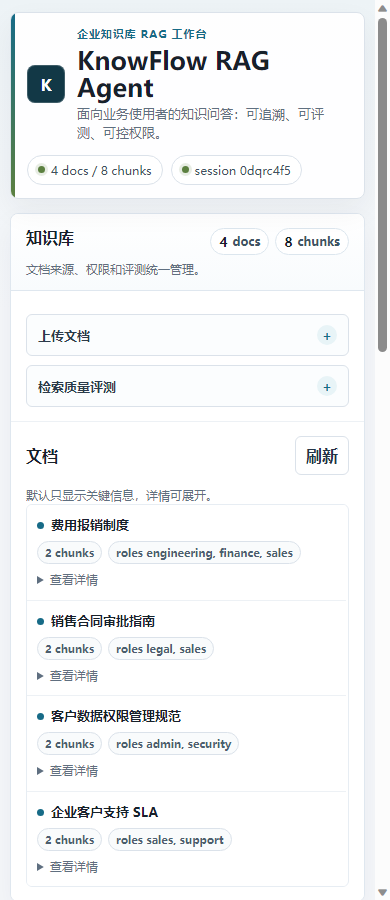
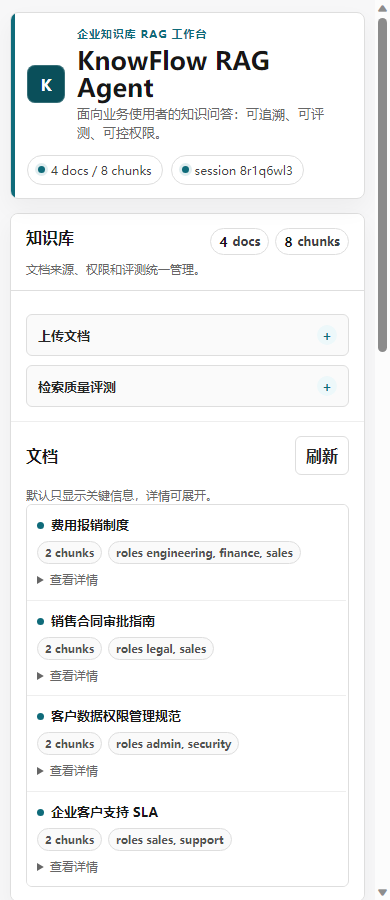
Align dashboard with Codex light theme

diff --git a/knowflow/web/static/app.css b/knowflow/web/static/app.css
@@ -1,23 +1,17 @@
 :root {
       color-scheme: light;
       font-family: Inter, "Microsoft YaHei", Arial, sans-serif;
-      --bg: #f5f7fa;
+      --bg: #f7f7f8;
       --panel: #ffffff;
-      --panel-soft: #f9fbfc;
-      --line: #dbe2ea;
-      --line-strong: #c8d2df;
-      --text: #17212b;
-      --muted: #5f6f80;
-      --accent: #176b87;
-      --accent-strong: #0f526a;
-      --accent-soft: #e8f4f7;
-      --green: #5c8040;
-      --green-soft: #edf7e8;
-      --amber: #9a6a2b;
-      --amber-soft: #fff6df;
-      --red: #a94b47;
-      --red-soft: #fff1f0;
-      --shadow: 0 12px 30px rgba(31, 45, 61, .055);
+      --panel-soft: #fafafa;
+      --line: #dedede;
+      --line-strong: #c9c9c9;
+      --text: #171717;
+      --muted: #666666;
+      --accent: #0f6b7a;
+      --accent-strong: #0a4f5a;
+      --accent-soft: #edf8fa;
+      --shadow: 0 10px 24px rgba(0, 0, 0, .045);
     }
     * { box-sizing: border-box; }
     [hidden] { display: none !important; }
@@ -35,26 +29,24 @@
     body {
       margin: 0;
       color: var(--text);
-      background:
-        linear-gradient(180deg, #edf3f6 0, rgba(245, 247, 250, .98) 310px),
-        var(--bg);
+      background: var(--bg);
     }
     main { max-width: 1500px; margin: 0 auto; padding: 16px 18px 32px; }
     .topbar {
       display: flex; align-items: center; justify-content: space-between; gap: 18px;
       margin-bottom: 14px; padding: 13px 16px;
       border: 1px solid var(--line); border-radius: 8px;
-      background: rgba(255,255,255,.95); box-shadow: var(--shadow);
+      background: rgba(255,255,255,.96); box-shadow: var(--shadow);
       position: relative; overflow: hidden;
     }
     .topbar::before {
       content: ""; position: absolute; inset: 0 auto 0 0; width: 4px;
-      background: linear-gradient(180deg, var(--accent), var(--green));
+      background: var(--accent);
     }
     .brand-block { display: flex; align-items: center; gap: 12px; min-width: 0; }
     .product-mark {
       width: 38px; height: 38px; border-radius: 8px; display: grid; place-items: center;
-      background: #123846; color: #fff; font-weight: 900; letter-spacing: 0;
+      background: var(--accent-strong); color: #fff; font-weight: 900; letter-spacing: 0;
       box-shadow: inset 0 0 0 1px rgba(255,255,255,.18);
       flex: 0 0 auto;
     }
@@ -69,21 +61,21 @@
     .pill {
       display: inline-flex; align-items: center; gap: 6px;
       border: 1px solid var(--line); border-radius: 999px;
-      padding: 6px 10px; color: #405062; background: #fff; font-size: 12px;
+      padding: 6px 10px; color: #3f3f46; background: #fff; font-size: 12px;
       max-width: 100%; overflow-wrap: anywhere;
     }
     #modePill::before, #sessionPill::before, #stats::before {
-      content: ""; width: 7px; height: 7px; border-radius: 999px; background: var(--green);
-      box-shadow: 0 0 0 3px rgba(92, 128, 64, .14);
+      content: ""; width: 7px; height: 7px; border-radius: 999px; background: var(--accent);
+      box-shadow: 0 0 0 3px rgba(15, 107, 122, .12);
       flex: 0 0 auto;
     }
     body[data-mode="retrieving"] #modePill::before,
     body[data-mode="uploading"] #modePill::before,
     body[data-mode="evaluating"] #modePill::before {
-      background: var(--amber); box-shadow: 0 0 0 3px rgba(154, 106, 43, .14);
+      background: var(--accent); box-shadow: 0 0 0 3px rgba(15, 107, 122, .12);
     }
     body[data-mode="error"] #modePill::before {
-      background: var(--red); box-shadow: 0 0 0 3px rgba(169, 75, 71, .14);
+      background: var(--accent); box-shadow: 0 0 0 3px rgba(15, 107, 122, .12);
     }
     .dashboard {
       display: grid;
@@ -93,13 +85,13 @@
     }
     .column {
       display: flex; flex-direction: column; gap: 0; min-width: 0;
-      background: var(--panel); border: 1px solid #dfe7ef; border-radius: 8px;
+      background: var(--panel); border: 1px solid var(--line); border-radius: 8px;
       box-shadow: var(--shadow); overflow: hidden;
     }
     .column-header {
       padding: 14px 15px 12px;
-      background: linear-gradient(180deg, #ffffff 0%, #f8fbfd 100%);
-      border-bottom: 1px solid #dfe7ef;
+      background: #ffffff;
+      border-bottom: 1px solid var(--line);
       min-height: 86px;
     }
     .column-title {
@@ -110,15 +102,15 @@
     .mini-stats { display: flex; flex-wrap: wrap; gap: 6px; }
     .mini-stat {
       display: inline-flex; align-items: center; gap: 5px; white-space: nowrap;
-      border: 1px solid #dce6ee; border-radius: 999px; padding: 4px 8px;
-      background: #fff; color: #415466; font-size: 12px; font-weight: 760;
+      border: 1px solid var(--line); border-radius: 999px; padding: 4px 8px;
+      background: #fff; color: #3f3f46; font-size: 12px; font-weight: 760;
     }
     .mini-stat strong { color: var(--text); font-size: 13px; }
     .panel {
       min-width: 0; border: 0; border-radius: 0;
       background: var(--panel); padding: 14px 15px; box-shadow: none;
     }
-    .column > .panel { border-top: 1px solid #edf1f5; }
+    .column > .panel { border-top: 1px solid #eeeeee; }
     .column > .column-header + .panel { border-top: 0; }
     .section-title {
       display: flex; align-items: center; justify-content: space-between; gap: 12px;
@@ -126,42 +118,42 @@
     }
     h2 { margin: 0; font-size: 16px; line-height: 1.2; }
     .hint { color: var(--muted); font-size: 12px; line-height: 1.45; margin-top: 4px; }
-    label { display: block; font-size: 12px; font-weight: 750; margin: 12px 0 6px; color: #364152; }
+    label { display: block; font-size: 12px; font-weight: 750; margin: 12px 0 6px; color: #3f3f46; }
     input, textarea, button { width: 100%; box-sizing: border-box; font: inherit; }
     input, textarea {
-      border: 1px solid #c8d2df; border-radius: 6px; padding: 10px 12px;
+      border: 1px solid var(--line-strong); border-radius: 6px; padding: 10px 12px;
       background: #fff; color: var(--text);
     }
-    input:focus, textarea:focus { outline: 2px solid rgba(23,107,135,.16); border-color: var(--accent); }
+    input:focus, textarea:focus { outline: 2px solid rgba(15, 107, 122, .16); border-color: var(--accent); }
     textarea { min-height: 220px; resize: vertical; line-height: 1.65; flex: 1; }
     button {
       margin-top: 12px; border: 0; border-radius: 6px; padding: 11px 14px;
       background: var(--accent); color: #fff; font-weight: 780; cursor: pointer;
       transition: transform .12s ease, box-shadow .12s ease, background .12s ease;
     }
-    button:hover { transform: translateY(-1px); box-shadow: 0 8px 18px rgba(23, 107, 135, .18); }
+    button:hover { transform: translateY(-1px); box-shadow: 0 8px 18px rgba(15, 107, 122, .16); }
     button:focus-visible {
-      outline: 3px solid rgba(23,107,135,.22);
+      outline: 3px solid rgba(15, 107, 122, .22);
       outline-offset: 2px;
     }
     button:disabled, input:disabled {
       opacity: .65; cursor: not-allowed; transform: none; box-shadow: none;
     }
     .primary { background: var(--accent); }
-    .secondary { background: #eef3f7; color: #243447; border: 1px solid var(--line); }
-    .ghost { margin-top: 0; width: auto; background: #fff; color: #243447; border: 1px solid var(--line); padding: 8px 10px; }
+    .secondary { background: #f3f3f3; color: #262626; border: 1px solid var(--line); }
+    .ghost { margin-top: 0; width: auto; background: #fff; color: #262626; border: 1px solid var(--line); padding: 8px 10px; }
     .danger {
-      width: auto; margin-top: 0; padding: 7px 9px; color: var(--red);
-      background: var(--red-soft); border: 1px solid #e3b2b0;
+      width: auto; margin-top: 0; padding: 7px 9px; color: #262626;
+      background: #f3f3f3; border: 1px solid var(--line);
     }
     .foldout {
       margin-top: 9px; border: 1px solid var(--line); border-radius: 6px;
-      background: #fbfdfe; overflow: hidden;
+      background: #fafafa; overflow: hidden;
     }
     .foldout summary {
       list-style: none; cursor: pointer; padding: 10px 11px;
       display: flex; align-items: center; justify-content: space-between; gap: 10px;
-      color: #2c3b4b; font-size: 13px; font-weight: 820;
+      color: #262626; font-size: 13px; font-weight: 820;
     }
     .foldout summary::-webkit-details-marker { display: none; }
     .foldout summary::after {
@@ -170,7 +162,7 @@
       color: var(--accent); font-weight: 900;
     }
     .foldout[open] summary::after { content: "-"; }
-    .foldout-body { padding: 0 12px 12px; border-top: 1px solid #e7edf3; }
+    .foldout-body { padding: 0 12px 12px; border-top: 1px solid #eeeeee; }
     .foldout-body label:first-child { margin-top: 10px; }
     .toolbar { display: grid; grid-template-columns: 1fr 1fr; gap: 10px; }
     .composer { display: grid; gap: 14px; align-items: end; flex: 1; }
@@ -182,7 +174,7 @@
     .identity-bar {
       display: grid; grid-template-columns: minmax(112px, .28fr) minmax(0, 1fr);
       gap: 12px; align-items: center; margin: 2px 0 13px;
-      padding: 9px 10px; border: 1px solid #e5eaf0; border-radius: 6px; background: #fbfcfd;
+      padding: 9px 10px; border: 1px solid var(--line); border-radius: 6px; background: #fafafa;
     }
     .identity-title { font-size: 13px; font-weight: 850; }
     .identity-copy { margin-top: 2px; color: var(--muted); font-size: 11px; line-height: 1.35; }
@@ -195,19 +187,19 @@
       margin-bottom: 13px;
     }
     .workflow-step {
-      border: 1px solid #e2e9f0; border-radius: 6px; background: #fbfdfe;
+      border: 1px solid var(--line); border-radius: 6px; background: #fafafa;
       padding: 9px 10px; min-width: 0;
     }
-    .workflow-step:first-child { background: #f4fafc; border-color: #cfe2ea; }
-    .workflow-step:nth-child(2) { background: #fbfaf5; border-color: #e6dcc3; }
-    .workflow-step:nth-child(3) { background: #f5fbf1; border-color: #d5e8ca; }
+    .workflow-step:first-child,
+    .workflow-step:nth-child(2),
+    .workflow-step:nth-child(3) { background: #fafafa; border-color: var(--line); }
     .workflow-step strong { display: block; font-size: 12px; line-height: 1.2; }
     .workflow-step span { display: block; margin-top: 3px; color: var(--muted); font-size: 11px; line-height: 1.3; }
     .quick-grid { display: flex; flex-wrap: wrap; gap: 8px; }
     .chip {
       width: auto; margin-top: 0; padding: 7px 10px;
       border: 1px solid var(--line); border-radius: 999px;
-      background: #f7fafc; color: #37485a; font-size: 12px;
+      background: #fafafa; color: #262626; font-size: 12px;
     }
     .chip:hover { background: var(--accent-soft); box-shadow: none; }
     .result-panel { display: flex; flex-direction: column; gap: 12px; }
@@ -218,29 +210,29 @@
     }
     .answer-metrics { display: grid; grid-template-columns: repeat(2, minmax(0, 1fr)); gap: 8px; }
     .answer-metric {
-      border: 1px solid #e2e9f0; border-radius: 6px; background: #fff; padding: 10px;
+      border: 1px solid var(--line); border-radius: 6px; background: #fff; padding: 10px;
       min-height: 72px;
     }
     .answer-metric-label { color: var(--muted); font-size: 11px; font-weight: 820; }
     .answer-metric-value { margin-top: 4px; font-size: 16px; font-weight: 880; line-height: 1.1; }
-    .answer-metric[data-level="low"] .answer-metric-value { color: var(--green); }
-    .answer-metric[data-level="medium"] .answer-metric-value { color: var(--amber); }
-    .answer-metric[data-level="high"] .answer-metric-value { color: var(--red); }
+    .answer-metric[data-level="low"] .answer-metric-value,
+    .answer-metric[data-level="medium"] .answer-metric-value,
+    .answer-metric[data-level="high"] .answer-metric-value { color: var(--accent); }
     .answer {
       white-space: pre-wrap; line-height: 1.75; font-size: 15px;
-      padding: 16px; background: linear-gradient(180deg, #ffffff 0%, #fbfdfe 100%);
-      border: 1px solid #dfe8f0; border-radius: 6px;
+      padding: 16px; background: #fff;
+      border: 1px solid var(--line); border-radius: 6px;
       box-shadow: inset 3px 0 0 var(--accent);
       overflow-wrap: anywhere;
     }
     .meta { display: flex; flex-wrap: wrap; gap: 8px; }
-    .meta .pill[data-level="low"] { border-color: #bdd8af; color: var(--green); background: var(--green-soft); }
-    .meta .pill[data-level="medium"] { border-color: #ead092; color: var(--amber); background: var(--amber-soft); }
-    .meta .pill[data-level="high"] { border-color: #e3b2b0; color: var(--red); background: var(--red-soft); }
+    .meta .pill[data-level="low"],
+    .meta .pill[data-level="medium"],
+    .meta .pill[data-level="high"] { border-color: rgba(15, 107, 122, .28); color: var(--accent); background: var(--accent-soft); }
     .tabs { display: flex; gap: 8px; border-bottom: 1px solid var(--line); margin-top: 4px; }
     .tab {
       width: auto; margin: 0; padding: 9px 12px; border-radius: 6px 6px 0 0;
-      border: 1px solid transparent; background: transparent; color: #334457; box-shadow: none;
+      border: 1px solid transparent; background: transparent; color: #3f3f46; box-shadow: none;
     }
     .tab.active {
       background: #fff; border-color: var(--line); border-bottom-color: #fff; color: var(--accent);
@@ -251,10 +243,10 @@
     .trust-grid { display: grid; gap: 8px; }
     .trust-row {
       display: grid; grid-template-columns: 28px 1fr auto; gap: 9px; align-items: center;
-      border: 1px solid #e5eaf0; border-radius: 6px; background: #fff; padding: 10px;
+      border: 1px solid var(--line); border-radius: 6px; background: #fff; padding: 10px;
     }
     .trust-row.active {
-      border-color: #cfe2ea; background: #f7fbfd;
+      border-color: rgba(15, 107, 122, .28); background: var(--accent-soft);
       box-shadow: inset 3px 0 0 var(--accent);
     }
     .trust-dot {
@@ -263,25 +255,25 @@
     }
     .trust-title { font-size: 13px; font-weight: 820; }
     .trust-copy { margin-top: 2px; color: var(--muted); font-size: 11px; line-height: 1.35; }
-    .trust-state { color: #405062; font-size: 11px; font-weight: 800; }
+    .trust-state { color: #3f3f46; font-size: 11px; font-weight: 800; }
     .loading-card {
-      border: 1px solid #cfe2ea; border-radius: 6px; background: #f7fbfd; padding: 14px;
+      border: 1px solid rgba(15, 107, 122, .28); border-radius: 6px; background: var(--accent-soft); padding: 14px;
       display: grid; gap: 12px;
     }
     .loading-head {
       display: grid; grid-template-columns: 28px 1fr; gap: 10px; align-items: center;
-      color: #334457; font-size: 12px; line-height: 1.45;
+      color: #3f3f46; font-size: 12px; line-height: 1.45;
     }
     .loading-head strong { display: block; color: var(--text); font-size: 13px; }
     .loading-spinner {
       width: 24px; height: 24px; border-radius: 999px;
-      border: 3px solid #d6e8ef; border-top-color: var(--accent);
+      border: 3px solid rgba(15, 107, 122, .18); border-top-color: var(--accent);
       animation: spin .9s linear infinite;
     }
     .loading-bars { display: grid; gap: 7px; }
     .loading-bars span {
       height: 8px; border-radius: 999px;
-      background: linear-gradient(90deg, #dce9ef, #f7fbfd, #dce9ef);
+      background: linear-gradient(90deg, rgba(15, 107, 122, .12), #fff, rgba(15, 107, 122, .12));
       background-size: 220% 100%;
       animation: shimmer 1.2s ease-in-out infinite;
     }
@@ -290,11 +282,11 @@
     @keyframes spin { to { transform: rotate(360deg); } }
     @keyframes shimmer { 0% { background-position: 120% 0; } 100% { background-position: -120% 0; } }
     .citation, .trace-row, .doc-row, .empty, .status-card {
-      border: 1px solid #e5eaf0; border-radius: 6px; background: var(--panel-soft); padding: 12px;
+      border: 1px solid var(--line); border-radius: 6px; background: var(--panel-soft); padding: 12px;
     }
     .citation { background: #fff; }
     .citation strong { display: block; margin-bottom: 5px; }
-    .citation p, .citation div { margin: 0; color: #3d4b5a; overflow-wrap: anywhere; }
+    .citation p, .citation div { margin: 0; color: #3f3f46; overflow-wrap: anywhere; }
     .follow-up-actions { display: flex; flex-wrap: wrap; gap: 8px; margin-top: 10px; }
     .follow-up-chip { max-width: 100%; text-align: left; line-height: 1.35; white-space: normal; }
     .trace-list, .doc-list, .status-list { display: grid; gap: 10px; }
@@ -303,14 +295,14 @@
     }
     .doc-list {
       flex: 1; min-height: 390px; max-height: none; overflow: auto; padding-right: 2px;
-      border: 1px solid #e7edf3; border-radius: 6px; background: #fff; gap: 0;
+      border: 1px solid var(--line); border-radius: 6px; background: #fff; gap: 0;
     }
     .center-column .question-card { flex: 1; }
     .right-column .result-panel { flex: 1; min-height: 0; }
     .right-column .empty-actions { display: none; }
     .right-column .tabs { margin-top: 0; }
     .right-column .tab { padding-inline: 10px; }
-    .trace-row.strong { border-color: #9cc48b; background: #f5fbf1; }
+    .trace-row.strong { border-color: rgba(15, 107, 122, .28); background: var(--accent-soft); }
     .trace-row:not(.strong) { background: #fff; }
     .trace-head, .doc-head {
       display: flex; justify-content: space-between; align-items: start; gap: 12px;
@@ -321,26 +313,26 @@
     }
     .score-bars { display: grid; gap: 6px; margin-top: 10px; }
     .score-line { display: grid; grid-template-columns: 48px 1fr 38px; align-items: center; gap: 8px; font-size: 11px; color: var(--muted); }
-    .score-track { height: 6px; border-radius: 999px; background: #e3e8ef; overflow: hidden; }
+    .score-track { height: 6px; border-radius: 999px; background: #e5e5e5; overflow: hidden; }
     .score-fill { display: block; height: 100%; border-radius: 999px; background: var(--accent); }
-    .score-fill.vector { background: #6f7f90; }
-    .score-fill.rerank { background: var(--green); }
+    .score-fill.vector { background: rgba(15, 107, 122, .55); }
+    .score-fill.rerank { background: var(--accent); }
     .eval-grid { display: grid; grid-template-columns: repeat(2, minmax(0, 1fr)); gap: 10px; }
     .eval-card {
-      border: 1px solid #e5eaf0; border-radius: 6px; background: #fff; padding: 12px;
+      border: 1px solid var(--line); border-radius: 6px; background: #fff; padding: 12px;
     }
     .eval-label { color: var(--muted); font-size: 11px; font-weight: 800; }
     .eval-value { margin-top: 5px; font-size: 22px; font-weight: 850; line-height: 1.1; }
     .eval-note { margin-top: 5px; color: var(--muted); font-size: 12px; line-height: 1.4; }
-    .case-row { border: 1px solid #e5eaf0; border-radius: 6px; background: #fff; padding: 12px; }
+    .case-row { border: 1px solid var(--line); border-radius: 6px; background: #fff; padding: 12px; }
     .case-title { font-weight: 800; font-size: 13px; line-height: 1.45; }
     .case-meta { margin-top: 8px; display: flex; flex-wrap: wrap; gap: 6px; }
     .doc-row {
       background: #fff; padding: 11px 10px; border: 0; border-radius: 0;
-      border-bottom: 1px solid #edf1f5;
+      border-bottom: 1px solid #eeeeee;
     }
     .doc-row:last-child { border-bottom: 0; }
-    .doc-row:hover { background: #fbfdfe; }
+    .doc-row:hover { background: #fafafa; }
     .doc-main { min-width: 0; }
     .doc-title { overflow-wrap: anywhere; }
     .doc-title::before {
@@ -348,7 +340,7 @@
       background: var(--accent); margin-right: 7px; vertical-align: 1px;
     }
     .doc-tags { display: flex; flex-wrap: wrap; gap: 6px; margin-top: 8px; }
-    .doc-tag { border: 1px solid var(--line); border-radius: 999px; padding: 3px 7px; color: #4d5e70; font-size: 11px; background: #f9fbfc; }
+    .doc-tag { border: 1px solid var(--line); border-radius: 999px; padding: 3px 7px; color: #525252; font-size: 11px; background: #fafafa; }
     .doc-details { margin-top: 7px; }
     .doc-actions { display: flex; justify-content: flex-end; margin-top: 8px; }
     .doc-actions .danger { padding: 5px 8px; font-size: 12px; }
@@ -361,7 +353,7 @@
     }
     .step-title { font-size: 13px; font-weight: 800; }
     .step-copy { margin-top: 2px; color: var(--muted); font-size: 12px; line-height: 1.4; }
-    pre { margin: 0; white-space: pre-wrap; overflow-wrap: anywhere; background: #111827; color: #f9fafb; padding: 12px; border-radius: 6px; }
+    pre { margin: 0; white-space: pre-wrap; overflow-wrap: anywhere; background: #171717; color: #fafafa; padding: 12px; border-radius: 6px; }
     @media (max-width: 1240px) {
       .dashboard { grid-template-columns: minmax(270px, 310px) minmax(0, 1fr); min-height: auto; }
       .right-column { grid-column: 1 / -1; }